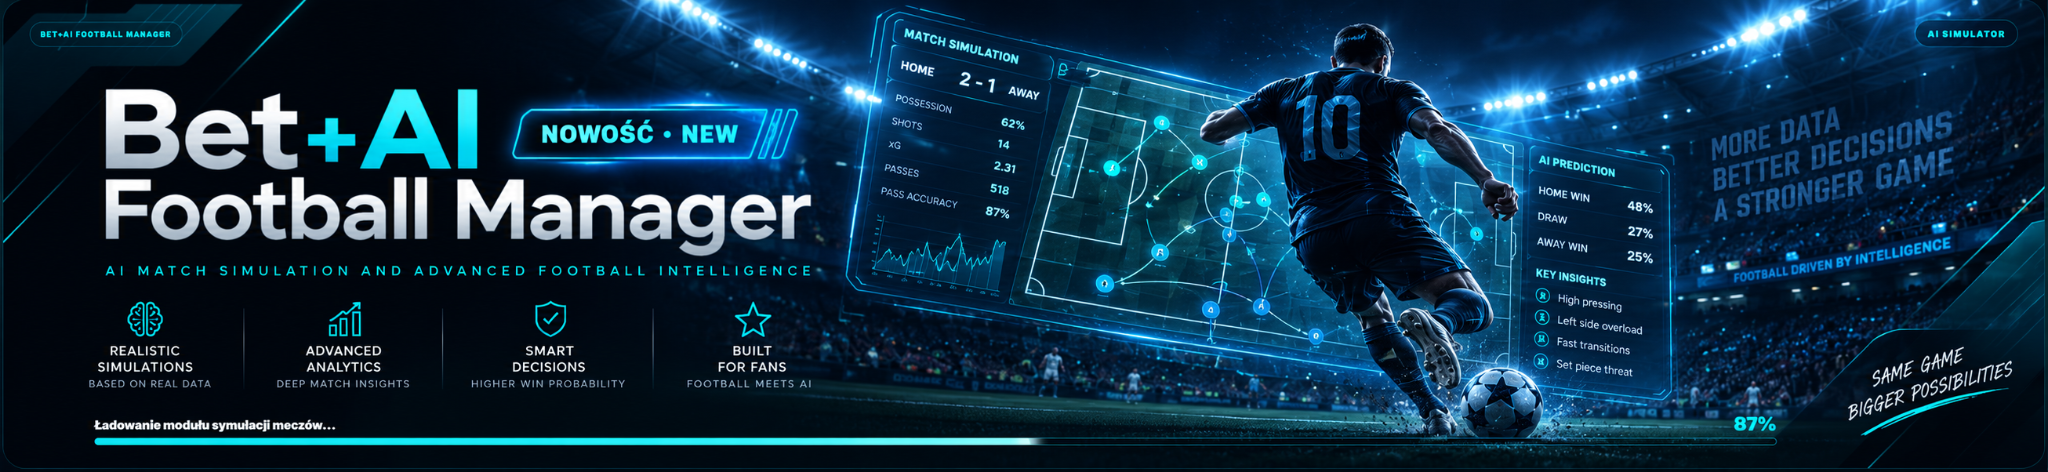
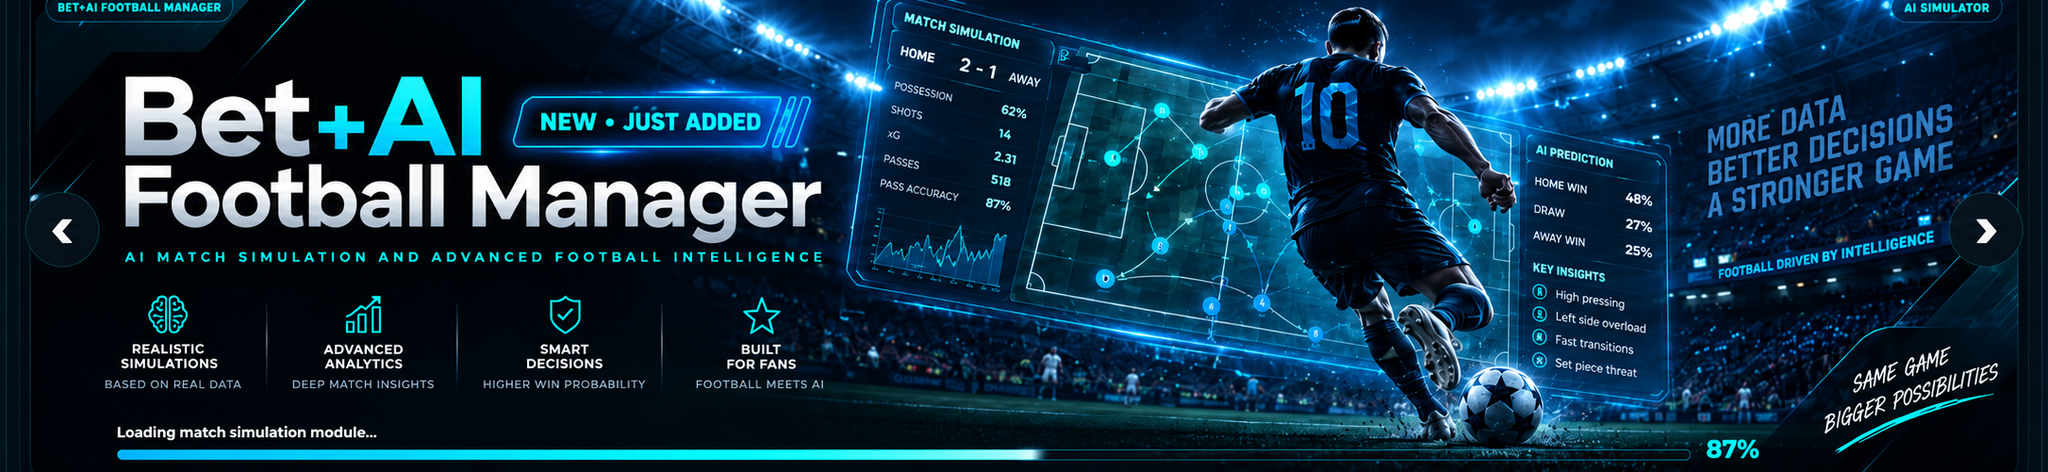
5656565

diff --git a/src/main.jsx b/src/main.jsx
@@ -6287,8 +6287,8 @@ function AnimatedDashboardHero() {
   }, [dashboardNewsSource])
 
   const staticHeroSlides = [
-    { type: 'image', src: getLocalizedDashboardHeroSrc('/dashboard-hero-v551/slide-hero-football-manager-new.png', lang), alt: 'Bet+AI Football Manager — nowość, symulacja meczów i zaawansowana inteligencja piłkarska' },
-    { type: 'image', src: getLocalizedDashboardHeroSrc('/dashboard-hero-v551/slide-hero-jest-moc.png', lang), alt: 'JEST MOC — Smilytv, statystyki, społeczność i sportowa pasja' },
+    { type: 'image', src: getLocalizedDashboardHeroSrc('/dashboard-hero-v551/slide-hero-football-manager-new.png', lang), alt: lang === 'en' ? 'Bet+AI Football Manager — new AI match simulation and advanced football intelligence' : 'Bet+AI Football Manager — nowość, symulacja meczów i zaawansowana inteligencja piłkarska' },
+    { type: 'image', src: getLocalizedDashboardHeroSrc('/dashboard-hero-v551/slide-hero-jest-moc.png', lang), alt: lang === 'en' ? "WE'VE GOT IT — Smilytv, statistics, community and sports passion" : 'JEST MOC — Smilytv, statystyki, społeczność i sportowa pasja' },
     { type: 'image', src: getLocalizedDashboardHeroSrc('/dashboard-hero-v551/you-vs-ai-hero.png', lang), alt: 'TY vs AI — przewiduj, kopiuj i rywalizuj z inteligencją Bet+AI' },
     { type: 'image', src: getLocalizedDashboardHeroSrc('/dashboard-hero-v551/slide-1.png', lang), alt: 'Bet+AI platforma — typy, analiza i społeczność' },
     { type: 'image', src: getLocalizedDashboardHeroSrc('/dashboard-hero-v551/slide-2.png', lang), alt: 'Bet+AI marketplace — kupuj i sprzedawaj typy oraz analizy' },
